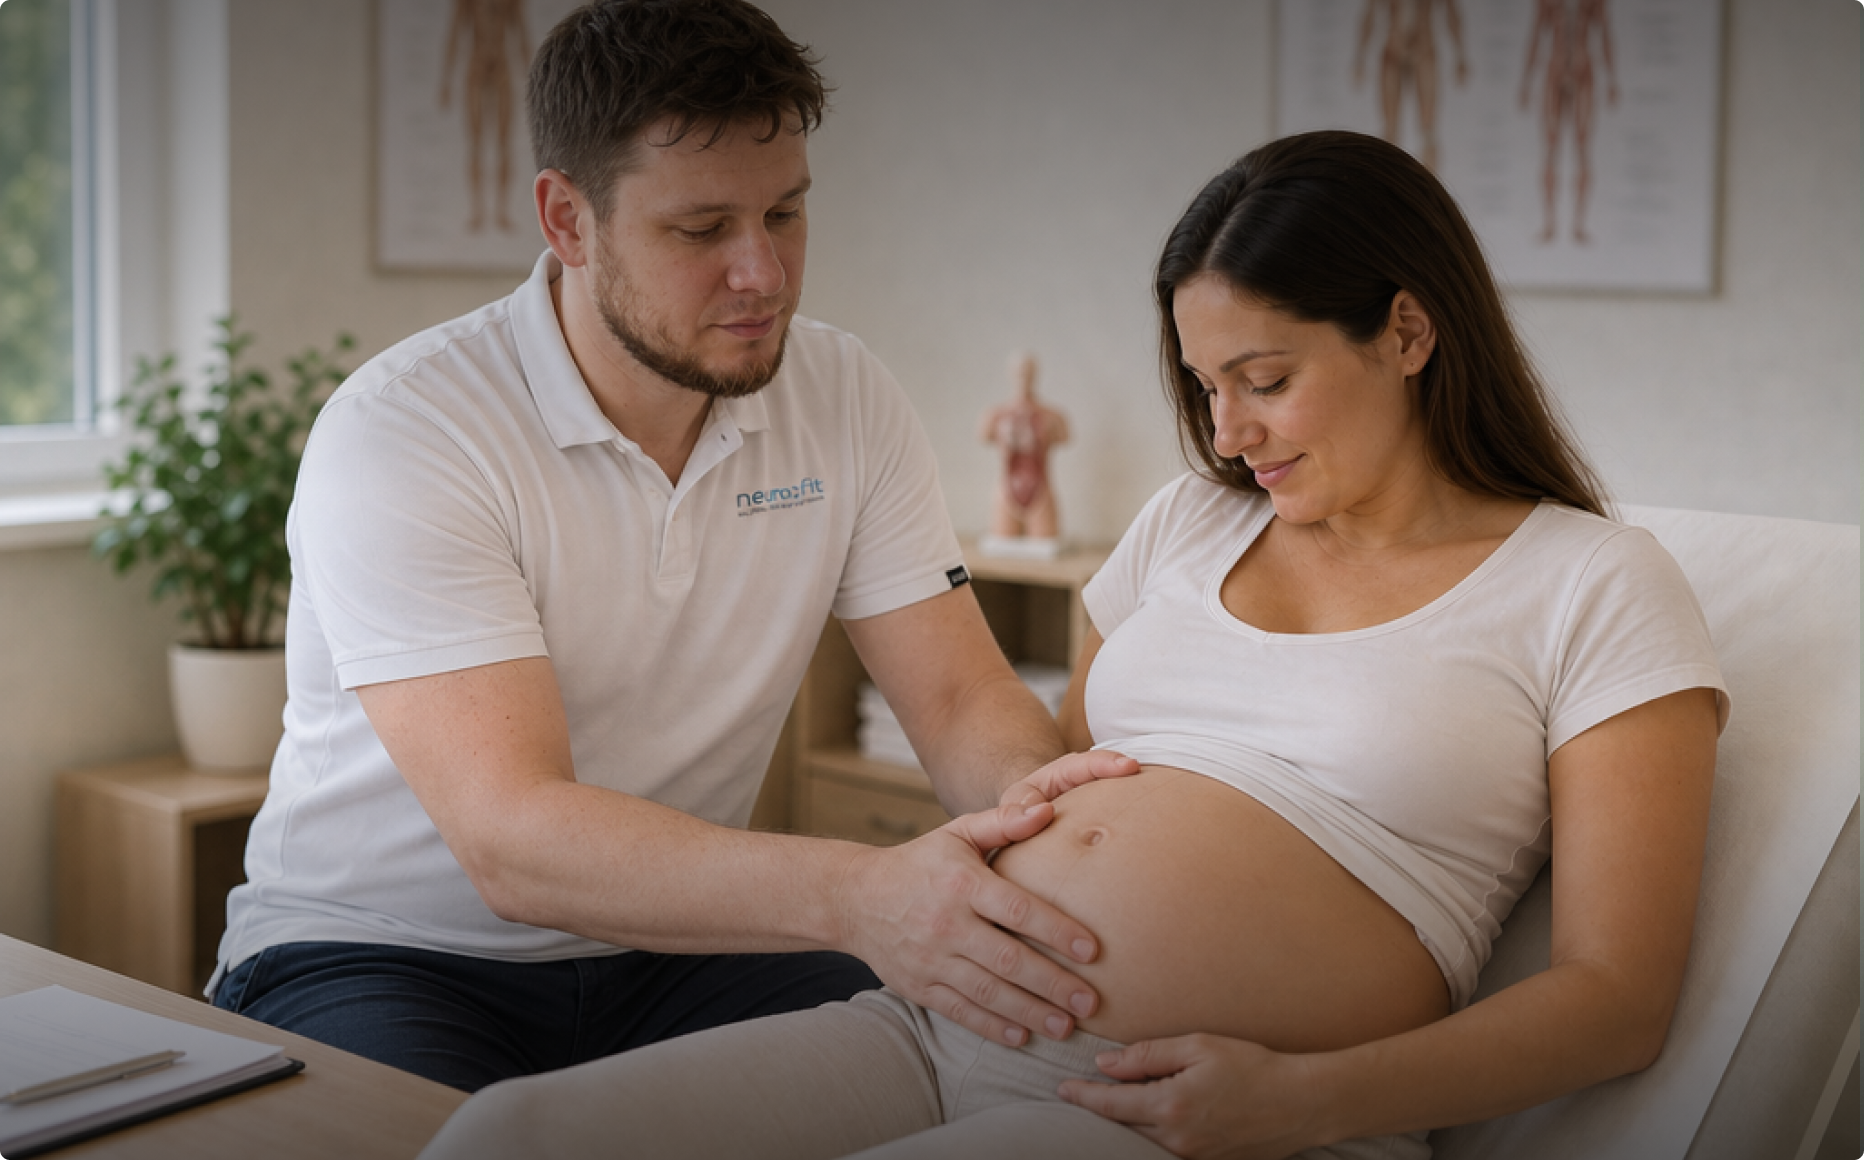
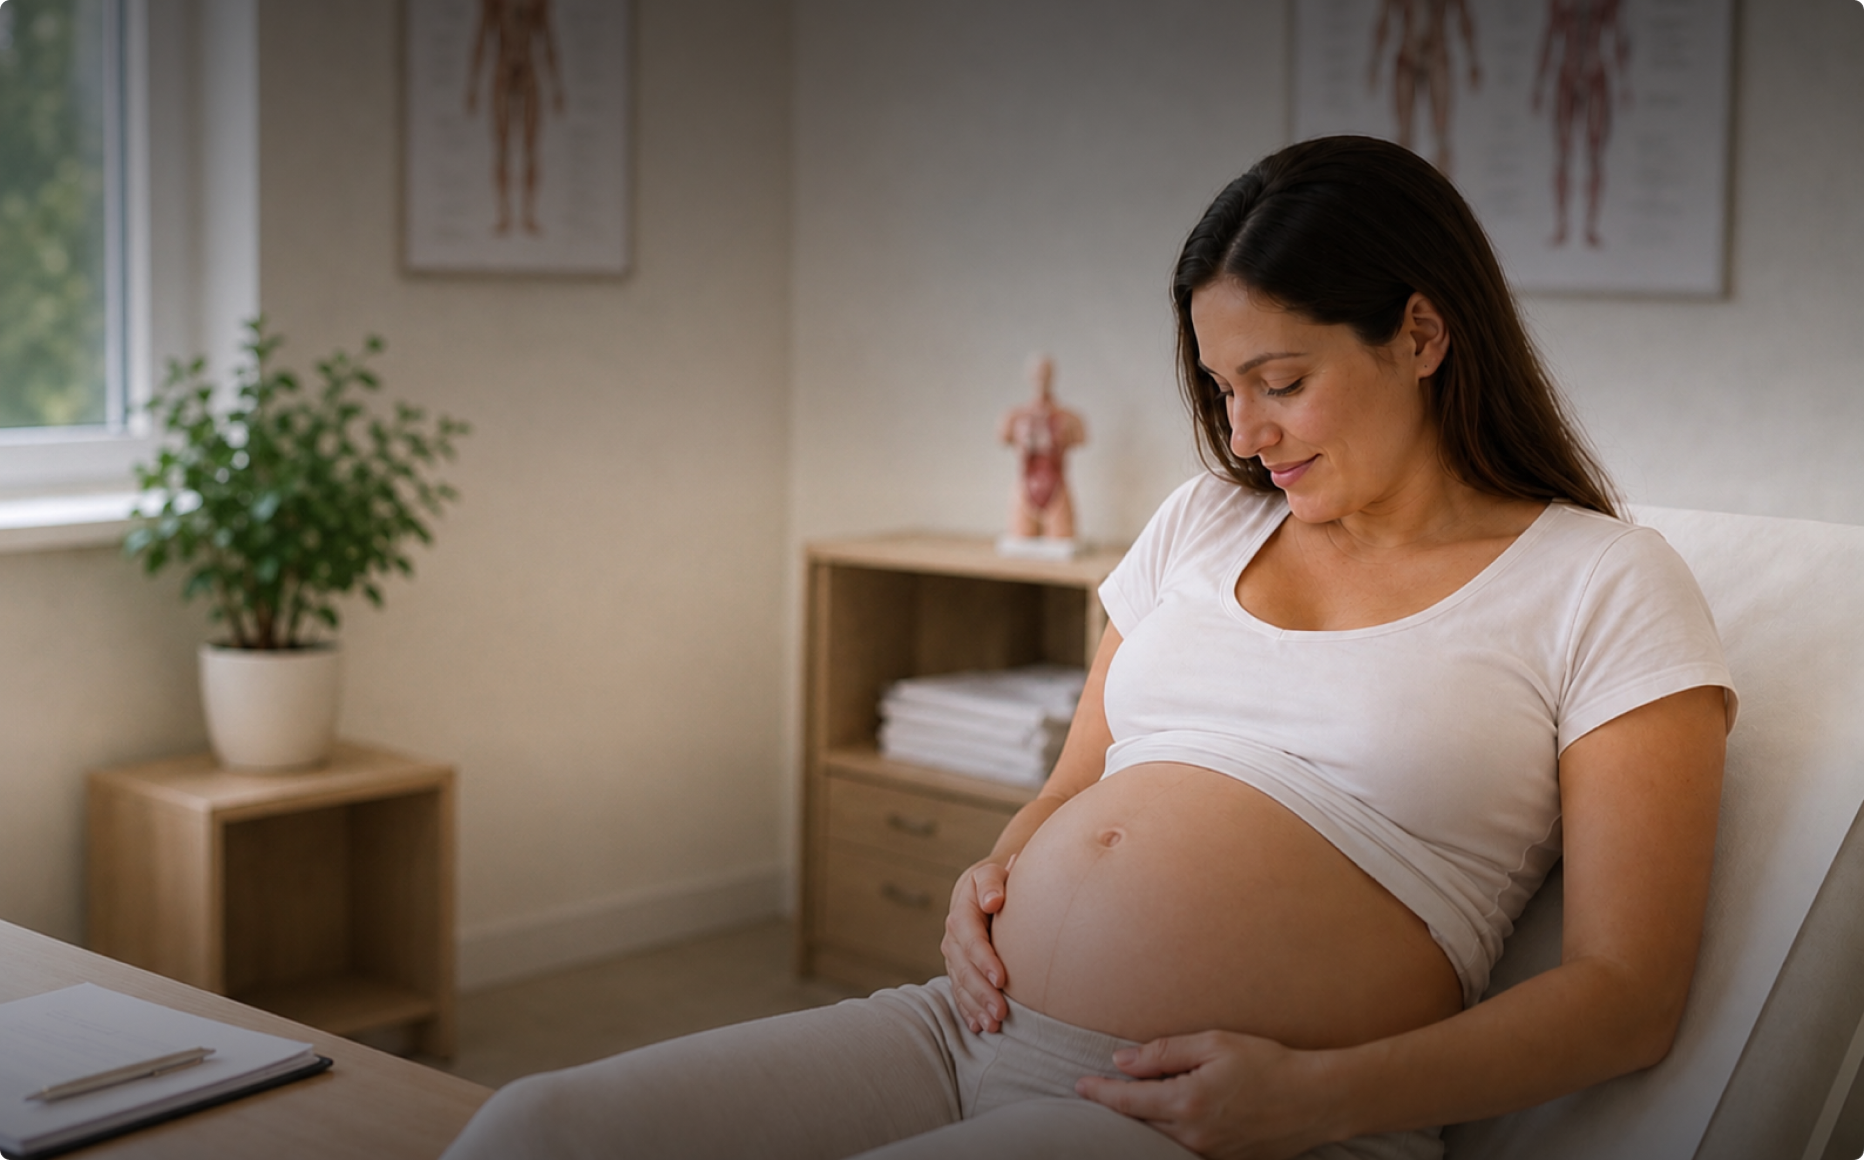
added some minor changes in structure; content

diff --git a/js/main.js b/js/main.js
@@ -58,42 +58,6 @@ if (scrollTopBtn) {
   });
 }
 
-const burgerBtn = document.querySelector('.header__burger');
-const mobileMenu = document.getElementById('mobileMenu');
-const mobileMenuClose = document.querySelector('.mobile-menu__close');
-const mobileMenuLinks = document.querySelectorAll('.mobile-menu__link, .mobile-menu__cta');
-
-function setMobileMenuOpen(isOpen) {
-  if (!burgerBtn || !mobileMenu) return;
-
-  burgerBtn.setAttribute('aria-expanded', String(isOpen));
-  mobileMenu.setAttribute('aria-hidden', String(!isOpen));
-  mobileMenu.classList.toggle('is-open', isOpen);
-  document.body.classList.toggle('menu-open', isOpen);
-}
-
-burgerBtn?.addEventListener('click', () => {
-  setMobileMenuOpen(!mobileMenu.classList.contains('is-open'));
-});
-
-mobileMenuClose?.addEventListener('click', () => setMobileMenuOpen(false));
-
-mobileMenuLinks.forEach(link => {
-  link.addEventListener('click', () => setMobileMenuOpen(false));
-});
-
-document.addEventListener('keydown', (event) => {
-  if (event.key === 'Escape') {
-    setMobileMenuOpen(false);
-  }
-});
-
-window.addEventListener('resize', () => {
-  if (window.innerWidth > 1100) {
-    setMobileMenuOpen(false);
-  }
-});
-
 if (document.querySelector('.therapies-swiper')) {
   const therapiesSwiper = new Swiper('.therapies-swiper', {
     slidesPerView: 1,

diff --git a/t-shape.html b/t-shape.html
@@ -30,7 +30,6 @@
           <a href="osteopathie.html" class="header__nav-link">Heilpraktiker/Osteopathie</a>
           <a href="t-shape.html" class="header__nav-link">T-Shape</a>
           <a href="relounge.html" class="header__nav-link">ReLounge</a>
-          <a href="about-us.html" class="header__nav-link">Über uns</a>
           <a href="jobs.html" class="header__nav-link">Karriere</a>
         </nav>
         <div class="header__actions">
@@ -317,31 +316,8 @@
                         </svg>
                       </div>
                       <div class="review-card__bottom">
-                        <h3 class="review-card__service">Gefühl:</h3>
-                        <p class="review-card__text">Die Behandlung ist völlig schmerzfrei und fühlt sich an wie eine wohltuende, warme Tiefengewebsmassage.</p>
-                      </div>
-                    </div>
-                  </div>
-                </div>
-  
-                <div class="swiper-slide">
-                  <div class="review-card">
-                    <div class="review-card__inner">
-                      <div class="review-card__header">
-                        <svg width="19" height="19" viewBox="0 0 19 19" fill="none" xmlns="http://www.w3.org/2000/svg">
-                          <path d="M11.4792 1.1875C10.6035 1.1875 9.89583 1.89514 9.89583 2.77083V6.72917C9.89583 7.60486 10.6035 8.3125 11.4792 8.3125C12.3549 8.3125 13.0625 7.60486 13.0625 6.72917V2.77083C13.0625 1.89514 12.3549 1.1875 11.4792 1.1875Z" fill="#4D6EFF" />
-                          <path d="M16.2292 5.14583C15.3535 5.14583 14.6458 5.85347 14.6458 6.72917V7.91667C14.6458 8.13528 14.8231 8.3125 15.0417 8.3125H16.2292C17.1049 8.3125 17.8125 7.60486 17.8125 6.72917C17.8125 5.85347 17.1049 5.14583 16.2292 5.14583Z" fill="#4D6EFF" />
-                          <path d="M7.52083 10.6875C6.64514 10.6875 5.9375 11.3951 5.9375 12.2708V16.2292C5.9375 17.1049 6.64514 17.8125 7.52083 17.8125C8.39653 17.8125 9.10417 17.1049 9.10417 16.2292V12.2708C9.10417 11.3951 8.39653 10.6875 7.52083 10.6875Z" fill="#4D6EFF" />
-                          <path d="M2.77083 10.6875C1.89514 10.6875 1.1875 11.3951 1.1875 12.2708C1.1875 13.1465 1.89514 13.8542 2.77083 13.8542C3.64653 13.8542 4.35417 13.1465 4.35417 12.2708V11.0833C4.35417 10.8647 4.17695 10.6875 3.95833 10.6875H2.77083Z" fill="#4D6EFF" />
-                          <path d="M12.2708 9.89583C11.3951 9.89583 10.6875 10.6035 10.6875 11.4792C10.6875 12.3549 11.3951 13.0625 12.2708 13.0625H16.2292C17.1049 13.0625 17.8125 12.3549 17.8125 11.4792C17.8125 10.6035 17.1049 9.89583 16.2292 9.89583H12.2708Z" fill="#4D6EFF" />
-                          <path d="M11.0833 14.6458C10.8647 14.6458 10.6875 14.8231 10.6875 15.0417V16.2292C10.6875 17.1049 11.3951 17.8125 12.2708 17.8125C13.1465 17.8125 13.8542 17.1049 13.8542 16.2292C13.8542 15.3535 13.1465 14.6458 12.2708 14.6458H11.0833Z" fill="#4D6EFF" />
-                          <path d="M2.77083 5.9375C1.89514 5.9375 1.1875 6.64514 1.1875 7.52083C1.1875 8.39653 1.89514 9.10417 2.77083 9.10417H6.72917C7.60486 9.10417 8.3125 8.39653 8.3125 7.52083C8.3125 6.64514 7.60486 5.9375 6.72917 5.9375H2.77083Z" fill="#4D6EFF" />
-                          <path d="M6.72917 1.1875C5.85347 1.1875 5.14583 1.89514 5.14583 2.77083C5.14583 3.64653 5.85347 4.35417 6.72917 4.35417H7.91667C8.13528 4.35417 8.3125 4.17695 8.3125 3.95833V2.77083C8.3125 1.89514 7.60486 1.1875 6.72917 1.1875Z" fill="#4D6EFF" />
-                        </svg>
-                      </div>
-                      <div class="review-card__bottom">
-                        <h3 class="review-card__service">Gefühl:</h3>
-                        <p class="review-card__text">Die Behandlung ist völlig schmerzfrei und fühlt sich an wie eine wohltuende, warme Tiefengewebsmassage.</p>
+                        <h3 class="review-card__service">Keine Ausfallzeit:</h3>
+                        <p class="review-card__text">Sie können sofort nach der Sitzung Ihren Alltag fortsetzen – oft mit einem Gefühl von „frischer Zirkulation“ und Leichtigkeit.</p>
                       </div>
                     </div>
                   </div>

diff --git a/css/media-about-us.css b/css/media-about-us.css
@@ -601,12 +601,25 @@
   }
 
   .for-back__top {
+    position: relative;
     background-image: url('../assets/img/potential-mobile.png');
     background-size: cover;
     background-position: center;
     border-radius: 10px;
     padding: 20px;
     margin-bottom: 70px;
+  }
+
+    .for-back__top::before {
+    content: '';
+    position: absolute;
+    bottom: 0;
+    left: 0;
+    background: linear-gradient(to top, rgba(0, 0, 0, 0.65) 0%, transparent 100%);
+    border-radius: 10px;
+    height: 200px;
+    width: 100%;
+    z-index: 0;
   }
 
   .for-back__title {
@@ -621,6 +634,10 @@
     font-size: 14px;
     color: #fff;
     max-width: 100%;
+  }
+
+  .for-back__top-left {
+    z-index: 2;
   }
 
   .for-back__mobile-img {

diff --git a/css/about-us.css b/css/about-us.css
@@ -547,6 +547,7 @@
 }
 
 .mission__left {
+  position: relative;
   width: 50%;
   background-image: url('../assets/img/mission.jpg');
   background-size: cover;
@@ -555,6 +556,18 @@
   padding: 54px 78px 50px 50px;
   display: flex;
   flex-direction: column;
+}
+
+.mission__left::before {
+  content: '';
+  position: absolute;
+  bottom: 0;
+  left: 0;
+  background: linear-gradient(to top, rgba(0, 0, 0, 0.65) 0%, transparent 100%);
+  border-radius: 10px;
+  height: 200px;
+  width: 100%;
+  z-index: 0;
 }
 
 .mission__left-title {
@@ -570,6 +583,7 @@
   font-size: 16px;
   line-height: 106%;
   color: #fff;
+  z-index: 2;
 }
 
 .mission__right {

diff --git a/css/physiotherapie.css b/css/physiotherapie.css
@@ -501,6 +501,7 @@
 
 .mission__left {
   width: 50%;
+  position: relative;
   background-image: url('../assets/img/holistic-physiotherapy.jpg');
   background-size: cover;
   background-position: center;
@@ -508,6 +509,18 @@
   padding: 54px 78px 70px 50px;
   display: flex;
   flex-direction: column;
+}
+
+.mission__left::before {
+  content: '';
+  position: absolute;
+  bottom: 0;
+  left: 0;
+  background: linear-gradient(to top, rgba(0, 0, 0, 0.65) 0%, transparent 100%);
+  border-radius: 10px;
+  height: 200px;
+  width: 100%;
+  z-index: 0;
 }
 
 .mission__left-title {
@@ -524,6 +537,7 @@
   line-height: 106%;
   color: #fff;
   max-width: 703px;
+  z-index: 2;
 }
 
 .mission__right {

diff --git a/css/media-atemtherapie.css b/css/media-atemtherapie.css
@@ -828,6 +828,11 @@
     cursor: pointer;
   }
 
+  .faq__row:hover {
+    background: transparent;
+    border-top-color: transparent;
+  }
+
   .faq__right {
     display: flex;
     flex-direction: column;

diff --git a/css/media-cmd-behandlung.css b/css/media-cmd-behandlung.css
@@ -1162,6 +1162,11 @@
     cursor: pointer;
   }
 
+  .faq__row:hover {
+    background: transparent;
+    border-top-color: transparent;
+  }
+
   .faq__right {
     display: flex;
     flex-direction: column;

diff --git a/css/media-physiotherapie.css b/css/media-physiotherapie.css
@@ -903,6 +903,11 @@
     cursor: pointer;
   }
 
+  .faq__row:hover {
+    background: transparent;
+    border-top-color: transparent;
+  }
+
   .faq__right {
     display: flex;
     flex-direction: column;

diff --git a/css/media-sporttherapie.css b/css/media-sporttherapie.css
@@ -655,6 +655,11 @@
     cursor: pointer;
   }
 
+    .faq__row:hover {
+    background: transparent;
+    border-top-color: transparent;
+  }
+
   .faq__right {
     display: flex;
     flex-direction: column;

diff --git a/physiotherapie.html b/physiotherapie.html
@@ -29,7 +29,6 @@
           <a href="osteopathie.html" class="header__nav-link">Heilpraktiker/Osteopathie</a>
           <a href="t-shape.html" class="header__nav-link">T-Shape</a>
           <a href="relounge.html" class="header__nav-link">ReLounge</a>
-          <a href="about-us.html" class="header__nav-link">Über uns</a>
           <a href="jobs.html" class="header__nav-link">Karriere</a>
         </nav>
         <div class="header__actions">
@@ -249,13 +248,13 @@
         <div class="mission-mob__divider">
         </div>
         <p class="mission-mob__text">Mit der Anwendung vieler verschiedener Techniken, wie spezielle Übungen, Massagen und Lymphdrainagen, behandeln wir Ihre Beschwerden mit dem Bewegungsapparat und den Körperfunktionen.</p>
-        <a href="#" class="mission-mob__btn hero__btn">
+        <button data-popup class="mission-mob__btn hero__btn">
           Schreiben Sie uns
           <svg width="12" height="12" viewBox="0 0 12 12" fill="none" xmlns="http://www.w3.org/2000/svg">
             <path d="M7.50024 4.37512L10.6253 7.50011L7.50024 10.6251" stroke="#657B8D" stroke-width="1.25" stroke-linecap="round" stroke-linejoin="round"/>
             <path d="M0.625 0.625V4.99999C0.625 5.66303 0.888388 6.29891 1.35723 6.76774C1.82607 7.23658 2.46194 7.49997 3.12498 7.49997H10.6249" stroke="#657B8D" stroke-width="1.25" stroke-linecap="round" stroke-linejoin="round"/>
           </svg>
-        </a>
+        </button>
       </div>
 
     </div>

diff --git a/css/media.css b/css/media.css
@@ -1319,7 +1319,7 @@
 
   .reviews-swiper .swiper-slide {
     width: 265px;
-    height: 353px;
+    height: 420px;
   }
 
   .review-card__inner {

diff --git a/css/style.css b/css/style.css
@@ -136,7 +136,7 @@ body {
 .header__nav {
   display: flex;
   align-items: center;
-  /* gap: 40px; */
+  gap: 5px;
 }
 
 .header__nav-link {